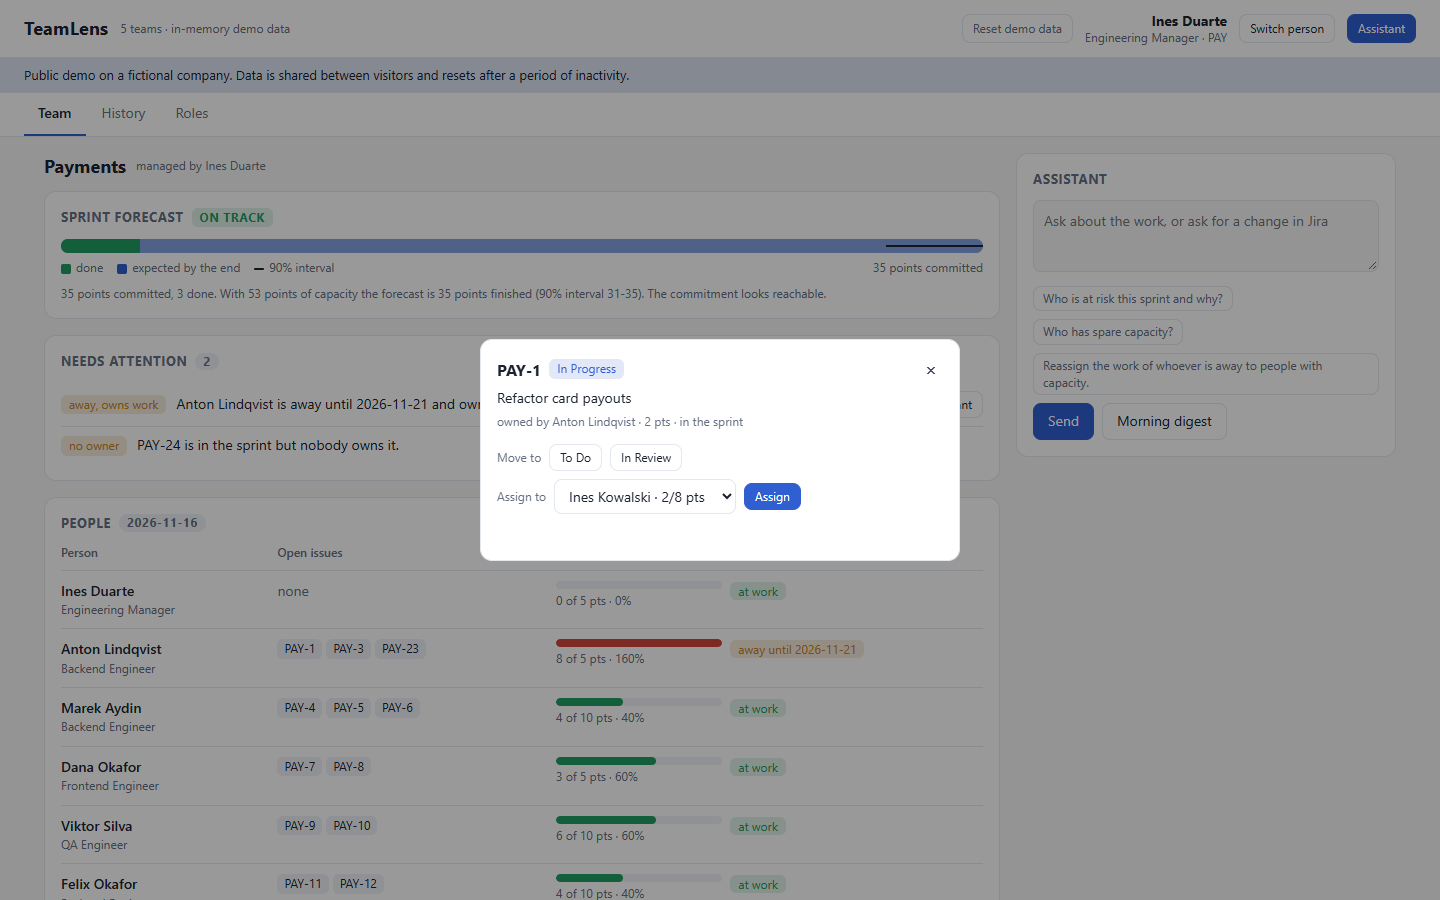
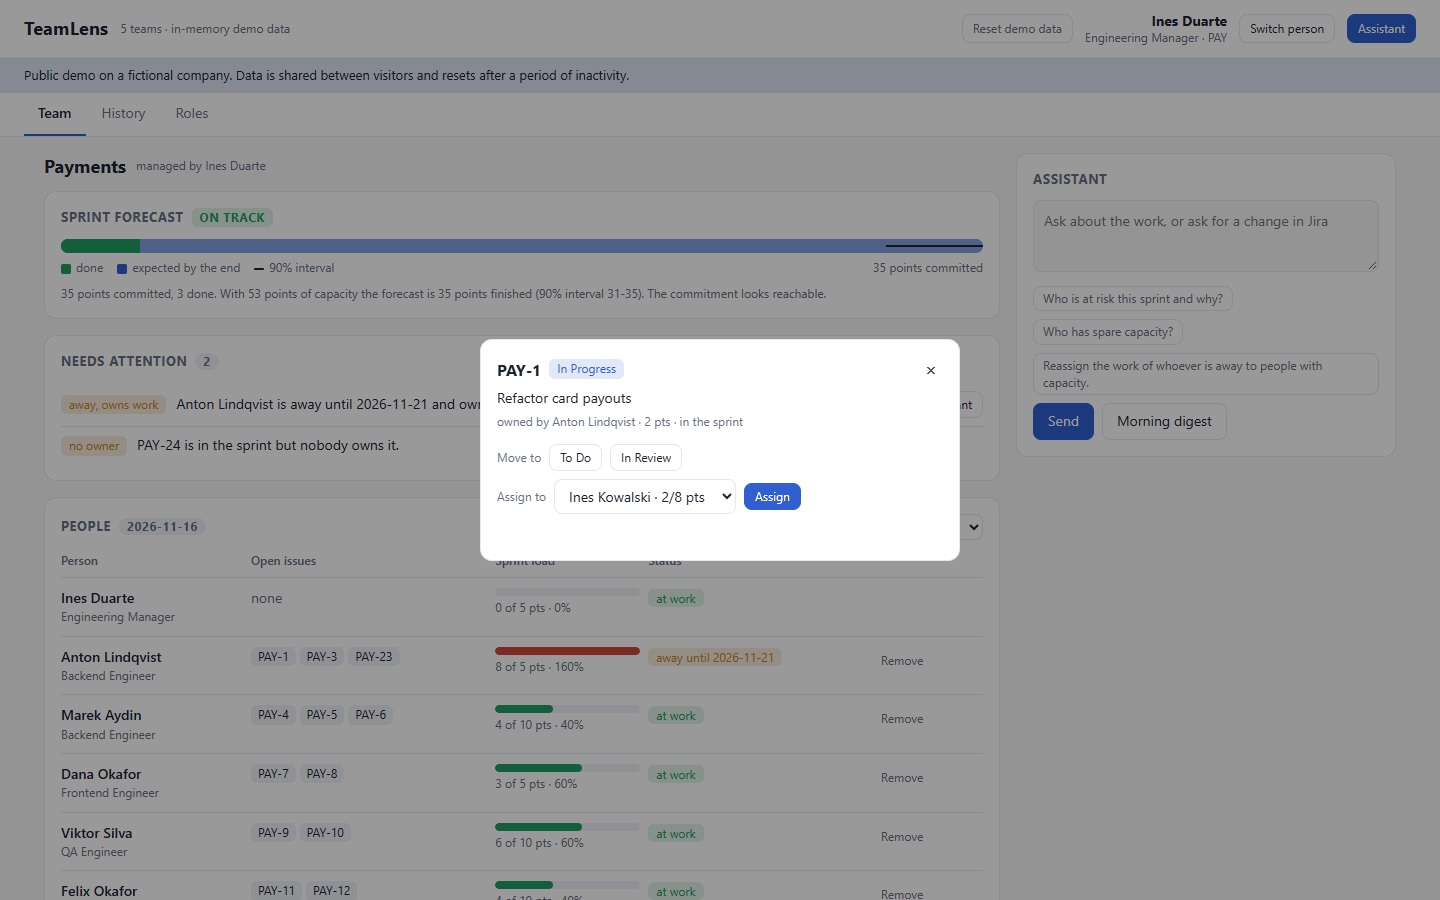
README, data document and screenshots for teams, people and shared state

diff --git a/README.md b/README.md
@@ -35,6 +35,8 @@ was measured.
 - **A screen per position.** A position in the HR record brings a role, and the role decides which screens a
   person gets. An engineer sees their own work and what they can take. A manager sees the team, its history and
   its roles. Leadership sees every team on one screen and can name an acting manager.
+- **Teams and people.** Leadership creates a team and names its manager; the manager and leadership add people
+  to it and remove them. Nobody leaves a team while issues are still in their name.
 - **Buttons under the same rules.** Taking, handing over or moving an issue does not need the model. A button
   sends one step through the same policy, the same code and the same audit log as the agent's plans.
 
@@ -50,8 +52,9 @@ was measured.
 
 | Position | Role it brings | Screens | May change |
 |---|---|---|---|
-| CEO, CTO, COO | `executive` | Company, any team (view only), History of all teams | who is an acting manager of a team; no issue |
-| Engineering Manager | `manager` | Team, History, Roles | any issue of the team, automatic assignment, the team's roles |
+| CEO | `chief-executive` | Company, any team, History by team | what leadership may, and who else has leadership access |
+| CTO, COO | `executive` | Company, any team (issues: view only), History by team | create a team, name its acting manager, add and remove its people; no issue |
+| Engineering Manager | `manager` | Team, History, Roles | any issue of the team, automatic assignment, the team's roles and people |
 | any other member of a team | `engineer` | My work, Team (view only) | their own issues; work nobody owns |
 
 The table of positions is one dictionary in `access.py`; a new position is one more line. A higher position
@@ -216,7 +219,7 @@ to the host. Without a model key everything that is plain code works and the age
 ```bash
 python -m venv .venv && .venv/Scripts/activate        # or: source .venv/bin/activate
 pip install -e ".[dev]"
-pytest -q                                             # 90 tests, no keys, no network
+pytest -q                                             # 101 tests, no keys, no network
 TEAMLENS_FAKE=1 python -m teamlens.web                # the page on the fictional company
 ```
 
@@ -264,13 +267,14 @@ src/teamlens/
     model.py         Claude behind one interface; a scripted model for tests
   people_agent/    the People agent: A2A service, Microsoft Agent Framework
   access.py        rights, roles, grants, and the role each position brings
+  staffing.py      who is in which team, and creating a team
   hrm.py           the only module that reads restricted HR fields
   jira.py, jira_cloud.py, mcp_servers.py     Jira behind one interface, in memory or Cloud, exposed over MCP
   overview.py      who works on what, problems found
   forecast.py, similar.py, triage/           the three measured features
   tracing.py       Langfuse, with names replaced by employee ids before export
   evals/           scenarios, runner, judge
-  web/             FastAPI app and one HTML page without a build step
+  web/             FastAPI app, one HTML page without a build step, shared state for the public demo
 docs/DATA.md       data classes, where each rule is enforced, what is not built
 evals/results/     published results, including the first run that turned out wrong
 ```
@@ -283,14 +287,15 @@ Stated plainly, so nobody has to find it:
   configured, limited to one team because the free plan allows ten accounts.
 - **There is no login.** The page starts by asking who you are, to show how people in different positions see
   and may do different things. A deployment needs SSO in front of it.
-- **It does not edit the organisation.** Who is in which team and who holds which position comes from the HR
-  system and is only read here. Leadership can name an acting manager; that is a role in TeamLens, not a change
-  to an HR record.
+- **Positions belong to HR.** TeamLens can create a team, move a person into a team or out of it, and give or
+  take leadership access, all by plain code and all in the audit log. It does not hire, dismiss or change a
+  position. In the demo the HR system is part of the app; behind the People agent it is read-only and these
+  buttons are refused.
 - **Storage is local.** The audit log is a file and paused conversations are in SQLite. Production needs a
   database with encryption at rest, retention periods and erasure on request.
-- **The public demo keeps the company in memory.** Its host can start a second instance with its own copy, so
-  two people using it at the same moment may see different states. The page sends one request at a time to stay
-  on one instance; the real fix is the database above.
+- **The public demo keeps the company in memory.** Its host runs several instances, so they share one copy
+  through Redis: the whole state as one document, saved under a lock (`web/shared.py`). That makes a demo
+  consistent. It is not the database above.
 - **Tokens between the agents are static.** The agent card already declares bearer authentication; production
   needs short-lived tokens issued per agent.
 - **The People agent does not yet check who a caller acts for.** Any caller with the read scope can read any

diff --git a/docs/DATA.md b/docs/DATA.md
@@ -32,6 +32,9 @@ record at that line: `Availability` carries dates, and no type on the Delivery s
 | A button and the agent have one way into Jira: the same policy, the same code, the same log | `delivery/direct.py` builds one step and hands it to `policy.check` | `test_buttons_go_through_the_same_rules_and_log_as_plans` |
 | A higher position widens the view, not the rights: leadership sees every team and changes no issue | `access.py`: the `executive` role holds no right over issues; `Toolbox.world` refuses a team the person has no right to see | `test_leadership_sees_every_team_and_changes_nothing_but_who_manages`, `test_leadership_gets_every_team_from_the_same_tools_and_changes_no_issue` |
 | The audit log and the list of who holds which role are returned by right, not hidden by the page | `web/app.py` checks `audit.view` and the role rights before it answers | `test_audit_log_and_role_holders_are_shown_by_right` |
+| Who is in which team changes only by plain code, with the right for that team, on record; nobody leaves a team with issues still in their name | `staffing.py`; the agent has no tool for it | `test_a_manager_adds_a_new_person_to_the_team_and_removes_one`, `test_leadership_creates_a_team_staffs_it_and_names_its_manager` |
+| Only the chief executive decides who else has leadership access; a position in the HR record is never changed here | `access.py`: `leadership.appoint` | `test_only_the_chief_executive_decides_who_else_is_leadership` |
+| Every instance of the public demo shows the same company | `web/shared.py`: version check before a request, save under a lock after a change | `test_a_change_made_through_one_instance_shows_in_the_other`, `test_a_plan_asked_on_one_instance_is_approved_on_another` |
 | A person approves every change the agent proposes, and only the requester can | `approve` node pauses the graph | `test_rejection_and_foreign_approver_change_nothing` |
 | The system assigns work on its own only where someone with the right switched that on; each assignment is explained, recorded and can be undone | `delivery/autoassign.py` | `test_auto_mode_assigns_by_itself_and_can_be_undone` |
 | Every decision is on record and tampering is visible | `delivery/audit.py`, hash-chained | `test_audit_chain_detects_tampering` |
